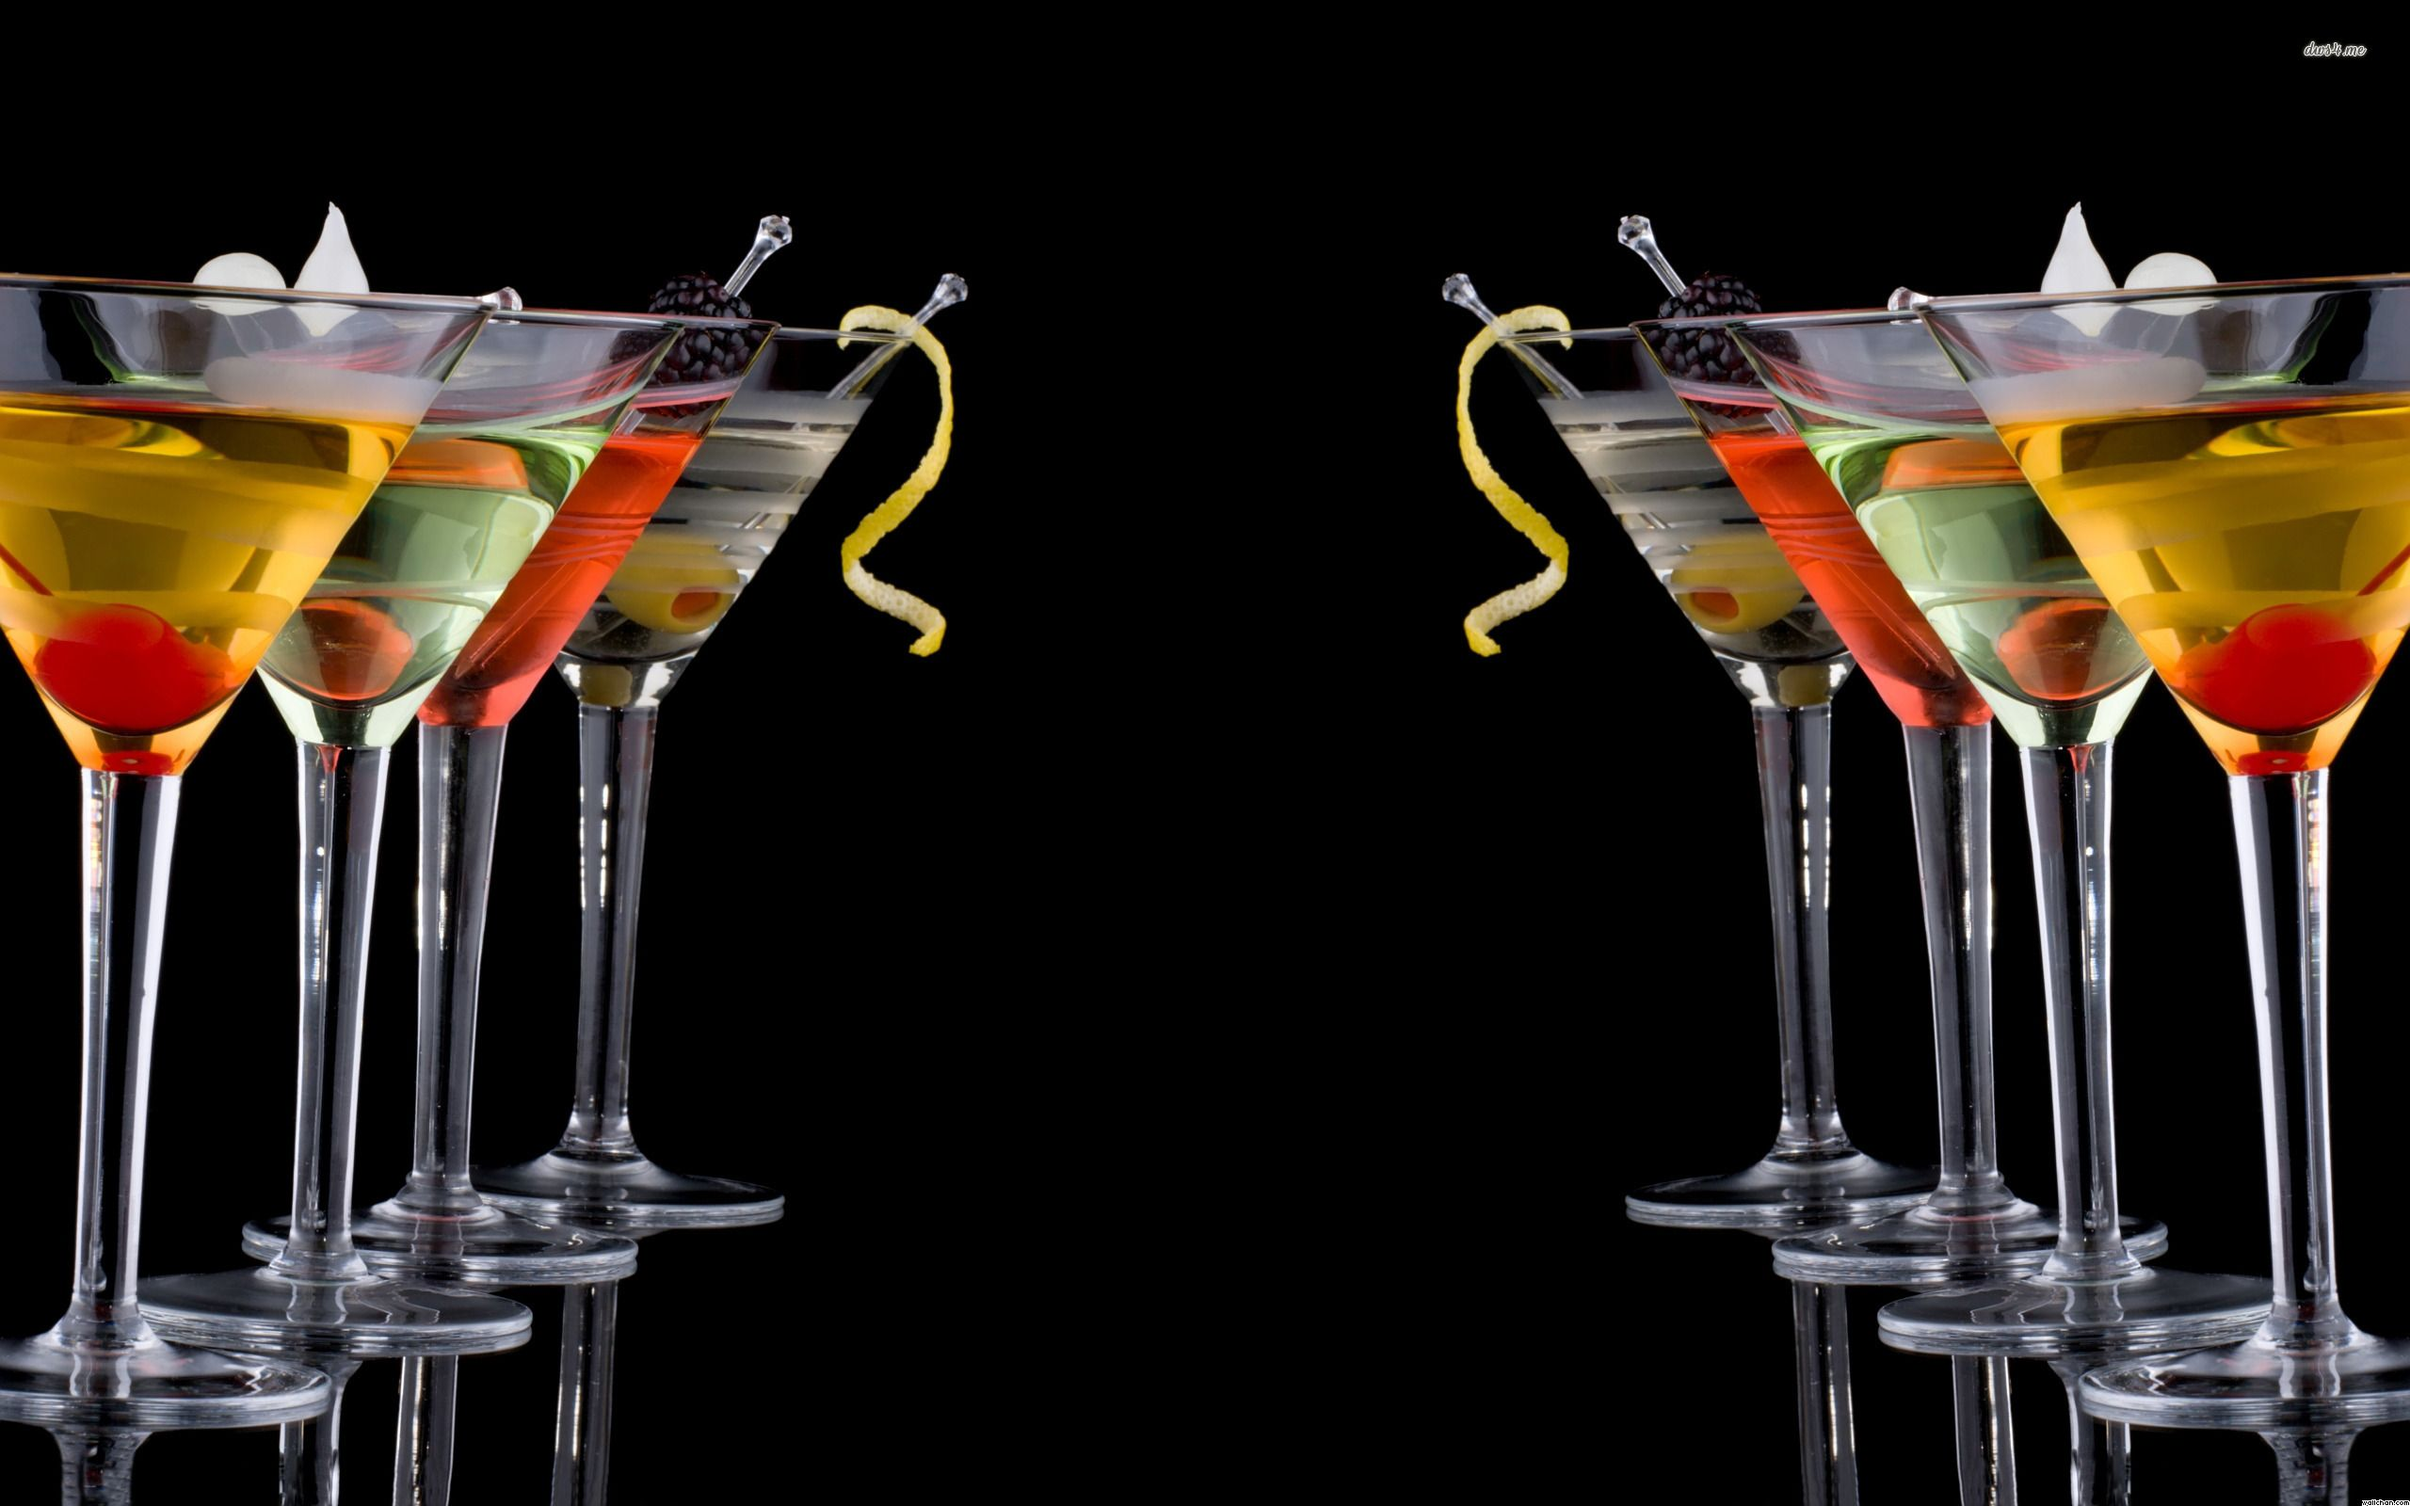
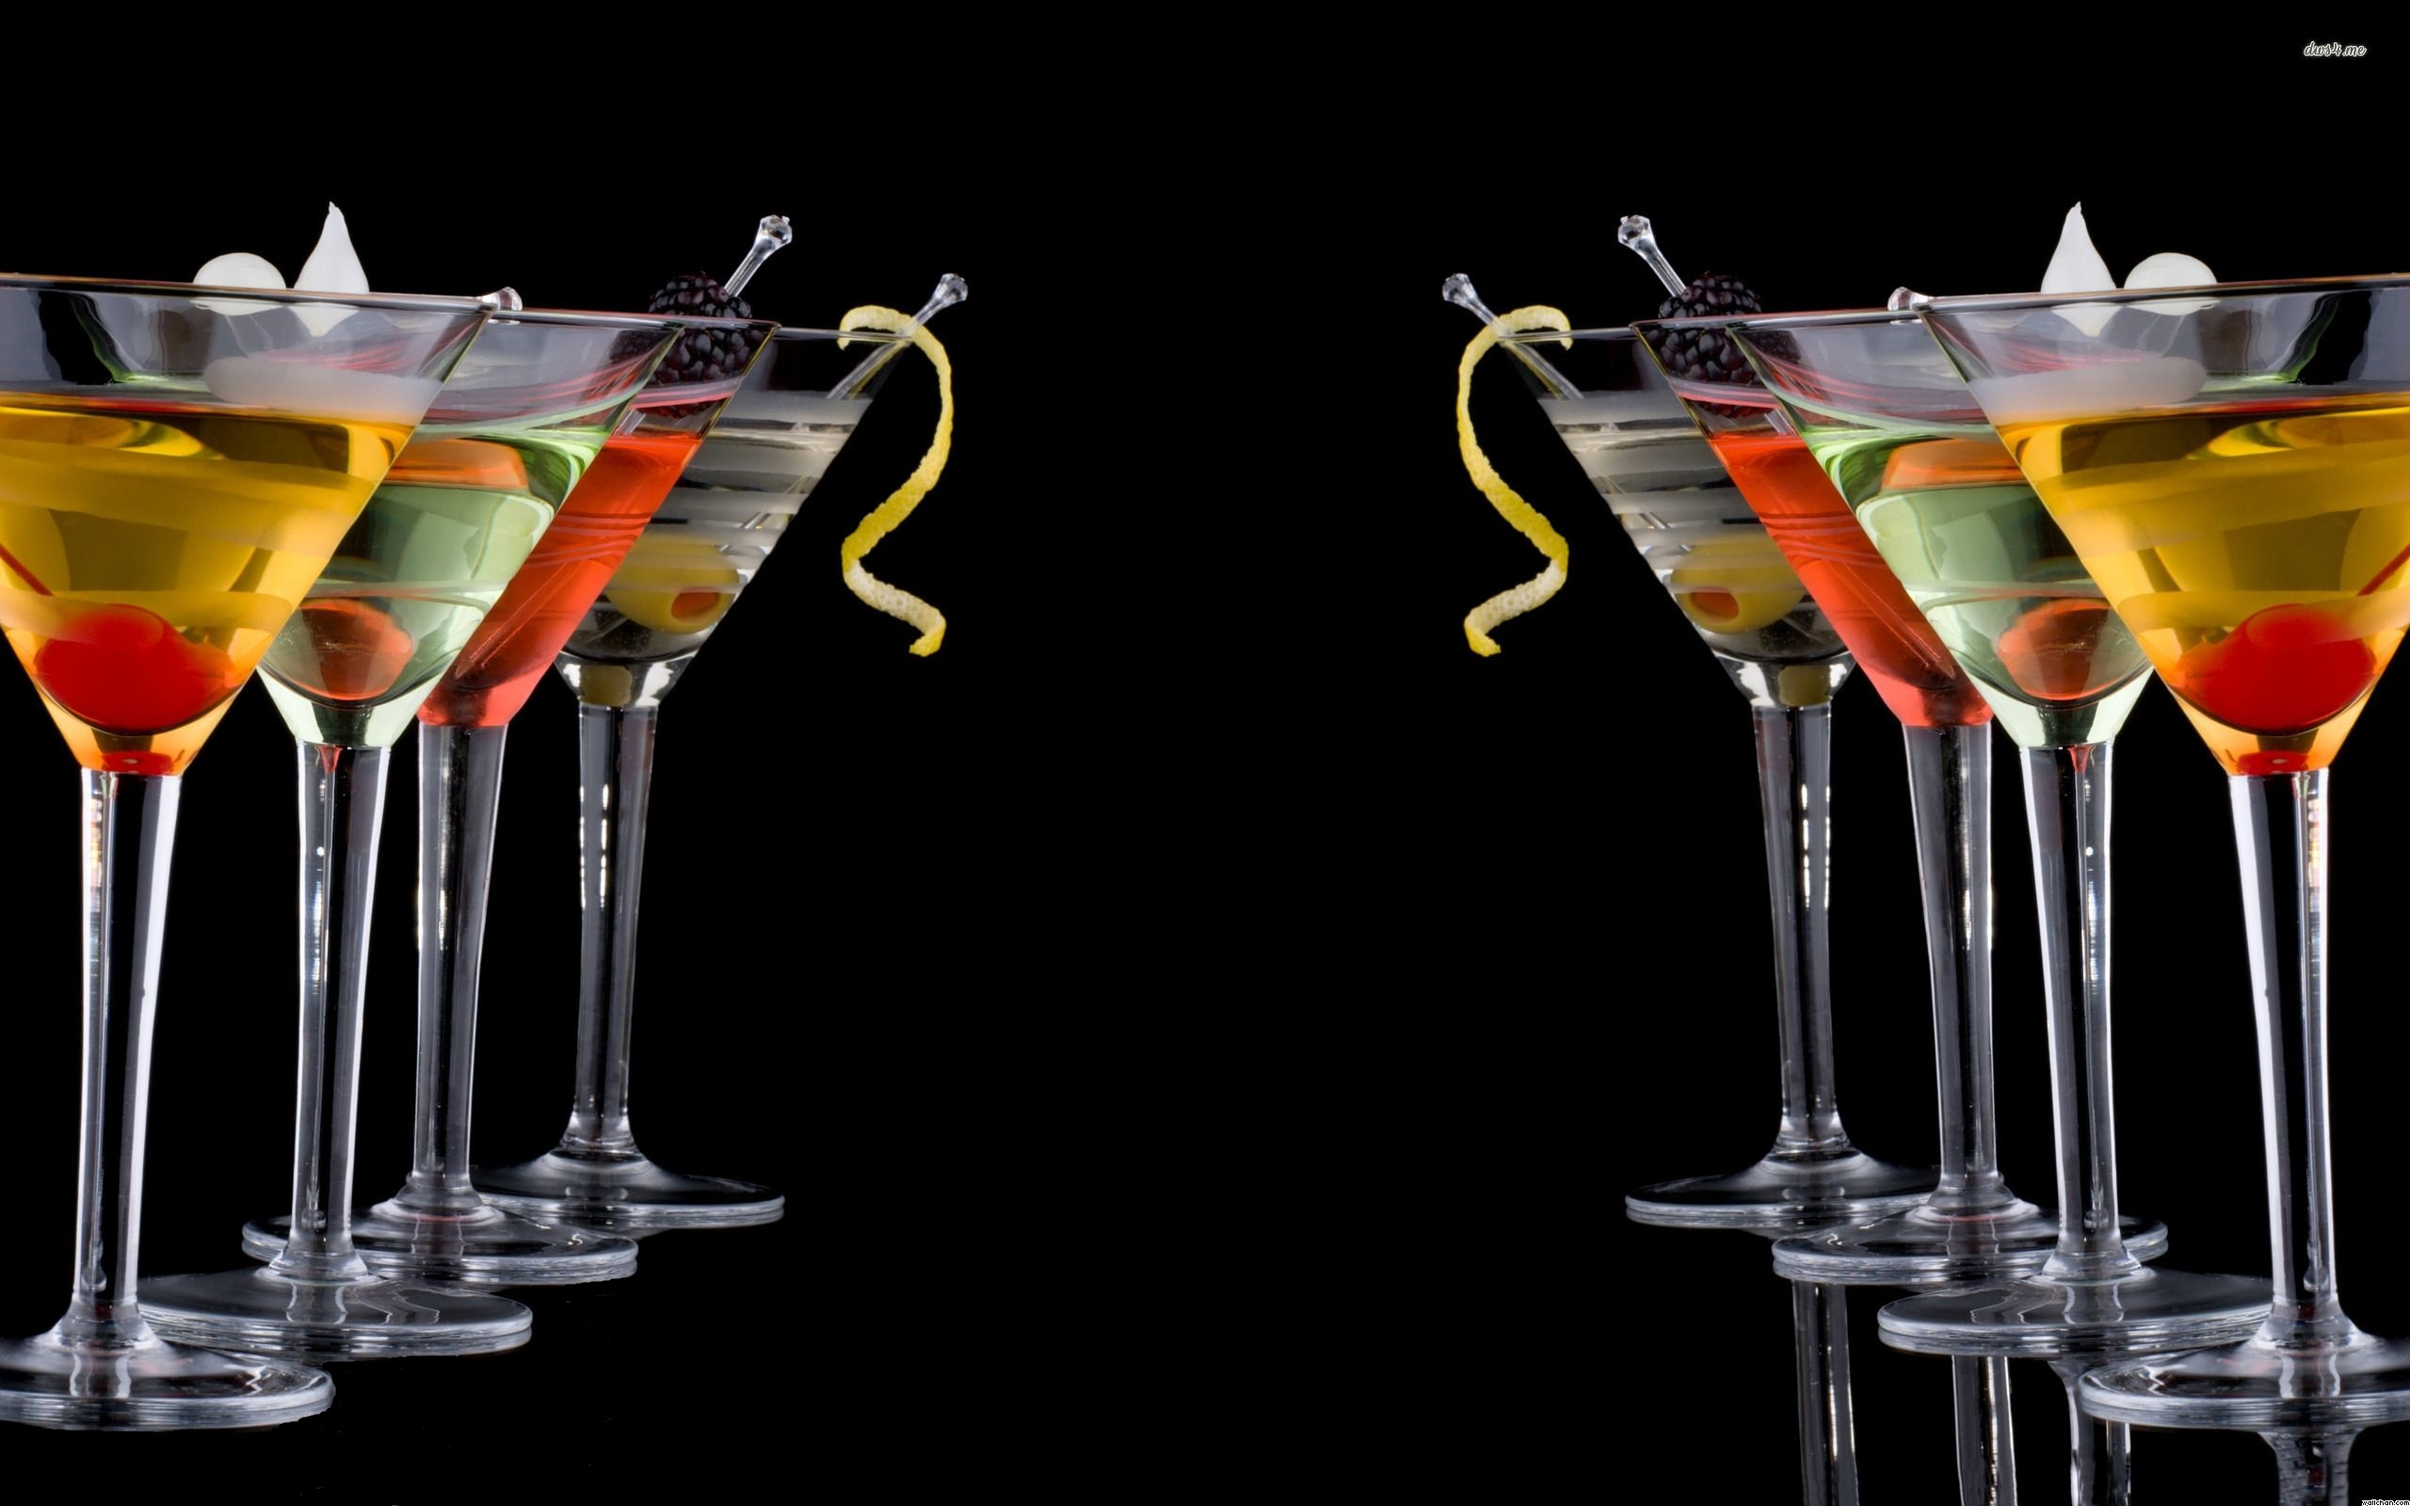
fixed the background to the page

Changed region(s): [[0.2188, 0.8438, 0.2812, 1.0], [0.0938, 0.875, 0.1875, 1.0], [0.0, 0.9375, 0.0625, 1.0]]

diff --git a/assets/js/script.js b/assets/js/script.js
@@ -17,6 +17,7 @@ selectElement.addEventListener('change', (event) => {
     popUp.classList.add("hide");
     console.log(event.target.value);
     if (event.target.value === "1") {
+        event.target.value = "";
         fetch(randomMeal)
             .then(function (response) {
                 return response.json();
@@ -74,6 +75,7 @@ selectElement.addEventListener('change', (event) => {
             })
 
     } else {
+        event.target.value = "";
         fetch(randomDrink)
             .then(function (response) {
                 return response.json();

diff --git a/assets/css/style.css b/assets/css/style.css
@@ -10,6 +10,8 @@ body {
     -moz-background-size: cover;
     -o-background-size: cover;
     background-size: cover;
+    background-position: top center;
+    background-attachment: fixed;
   }
 .nav-wrapper {
     color:white;
